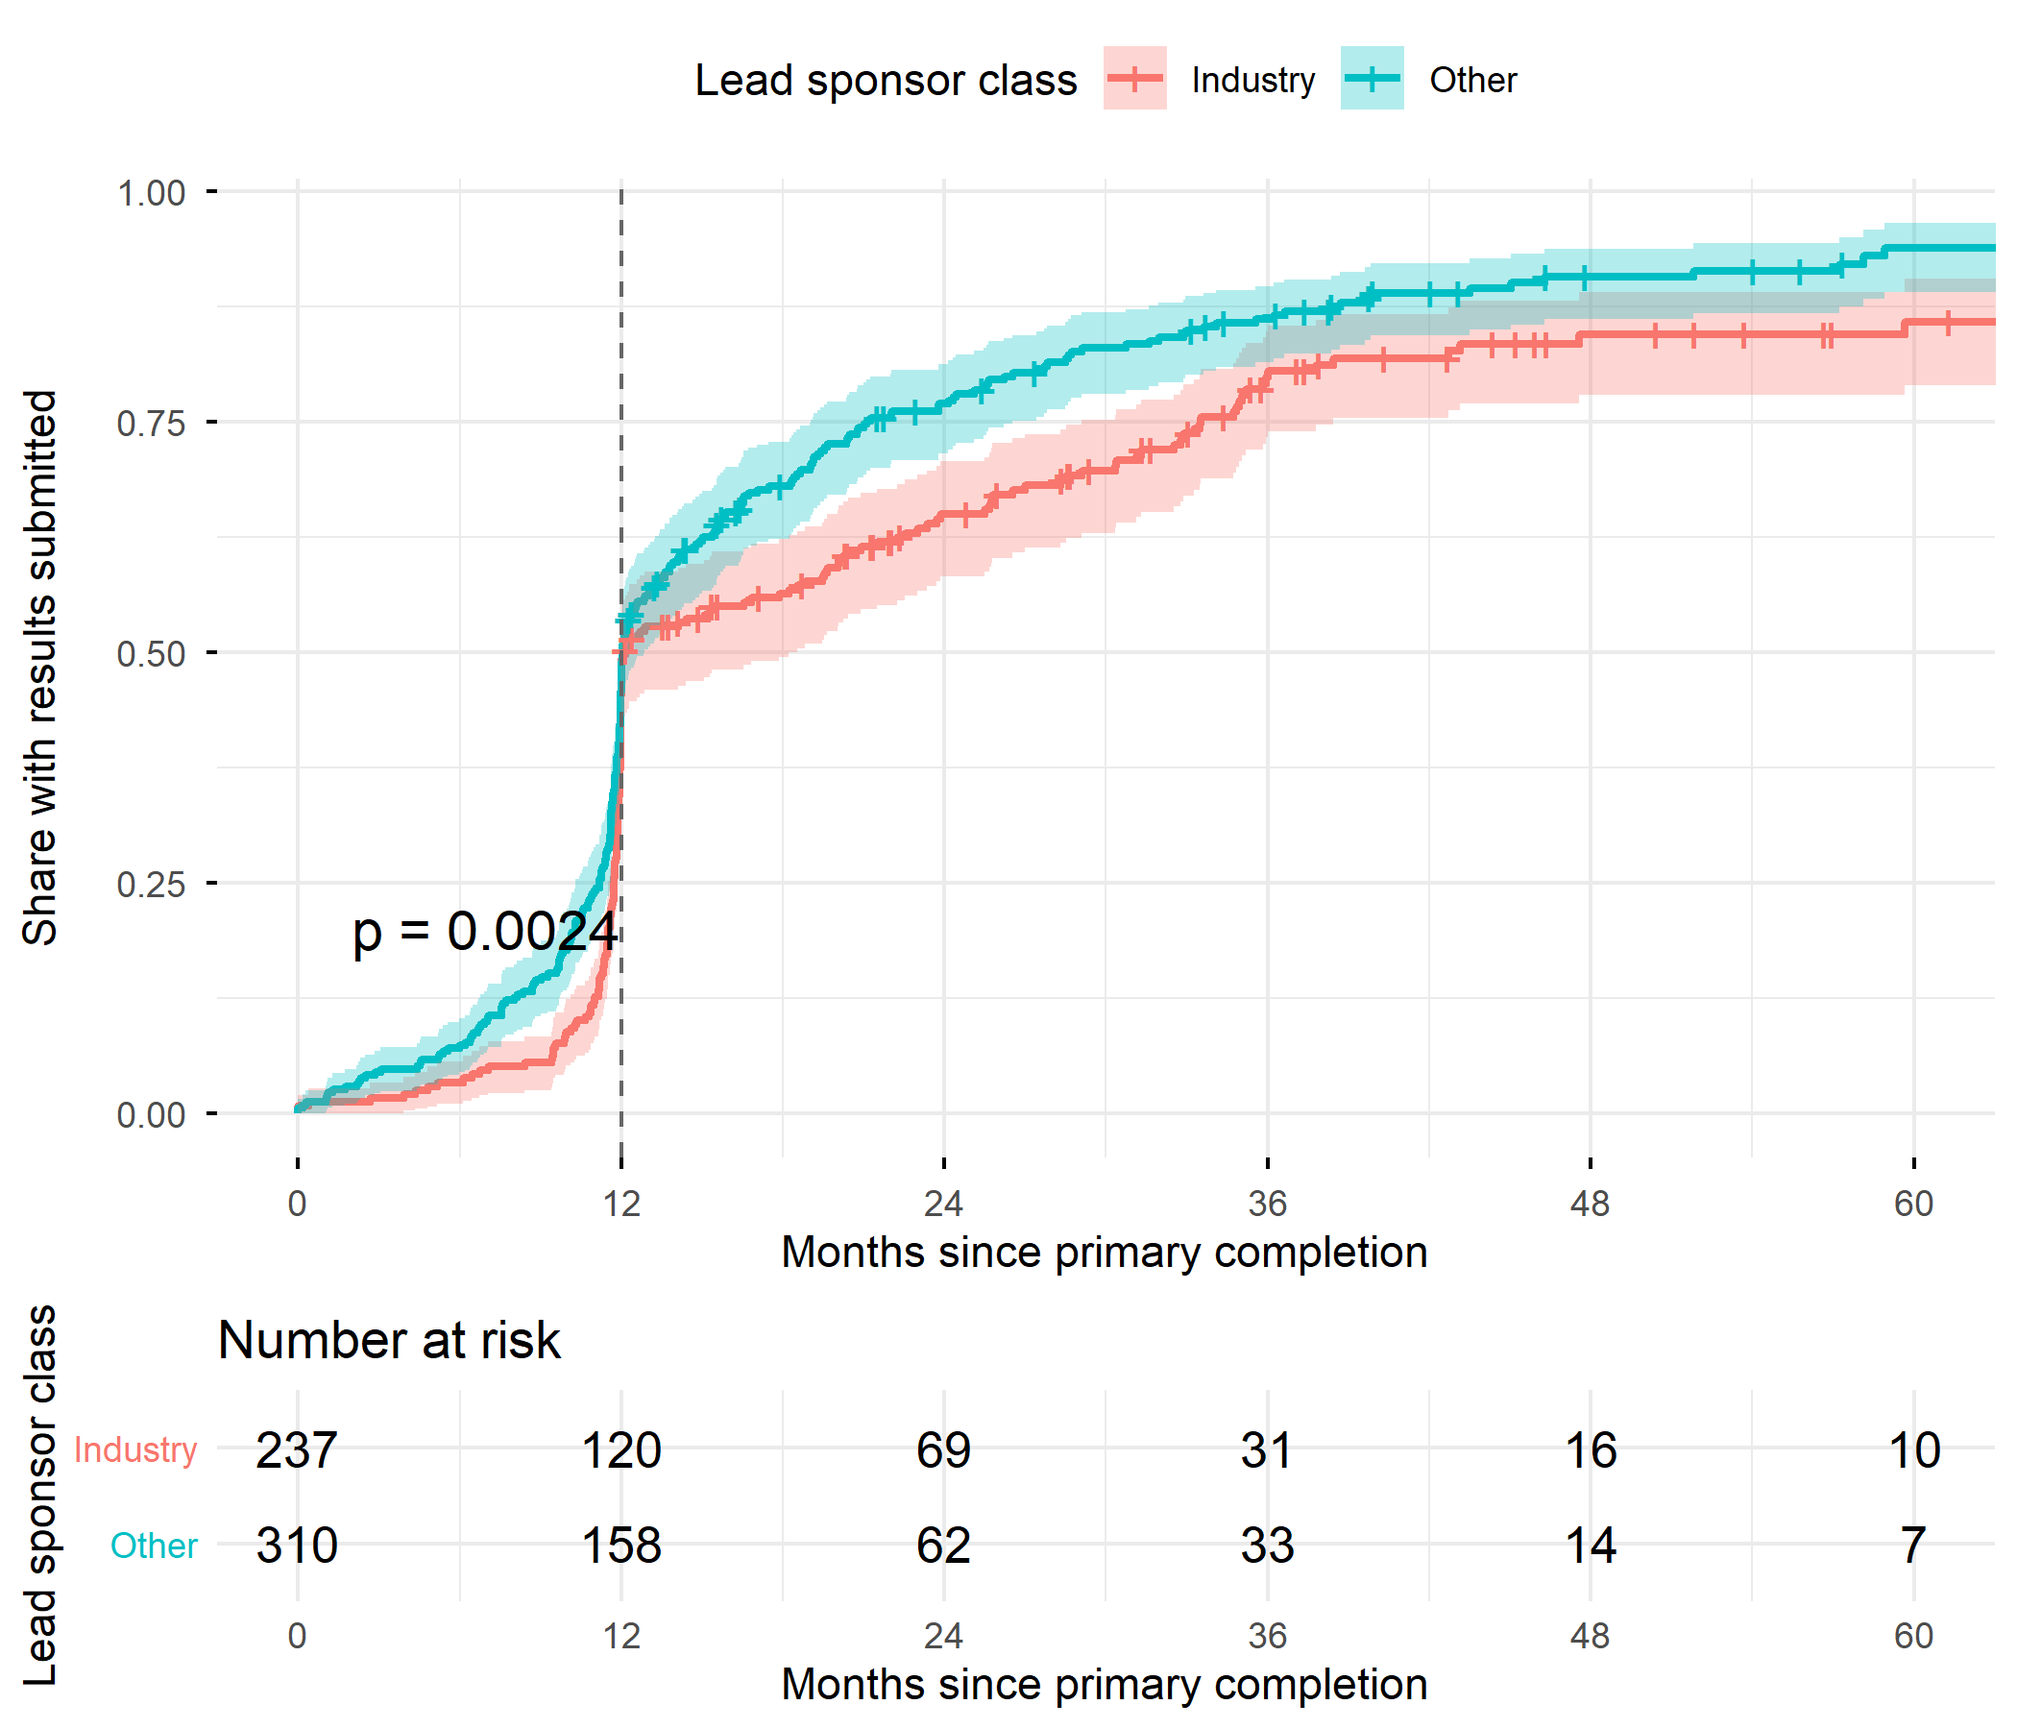
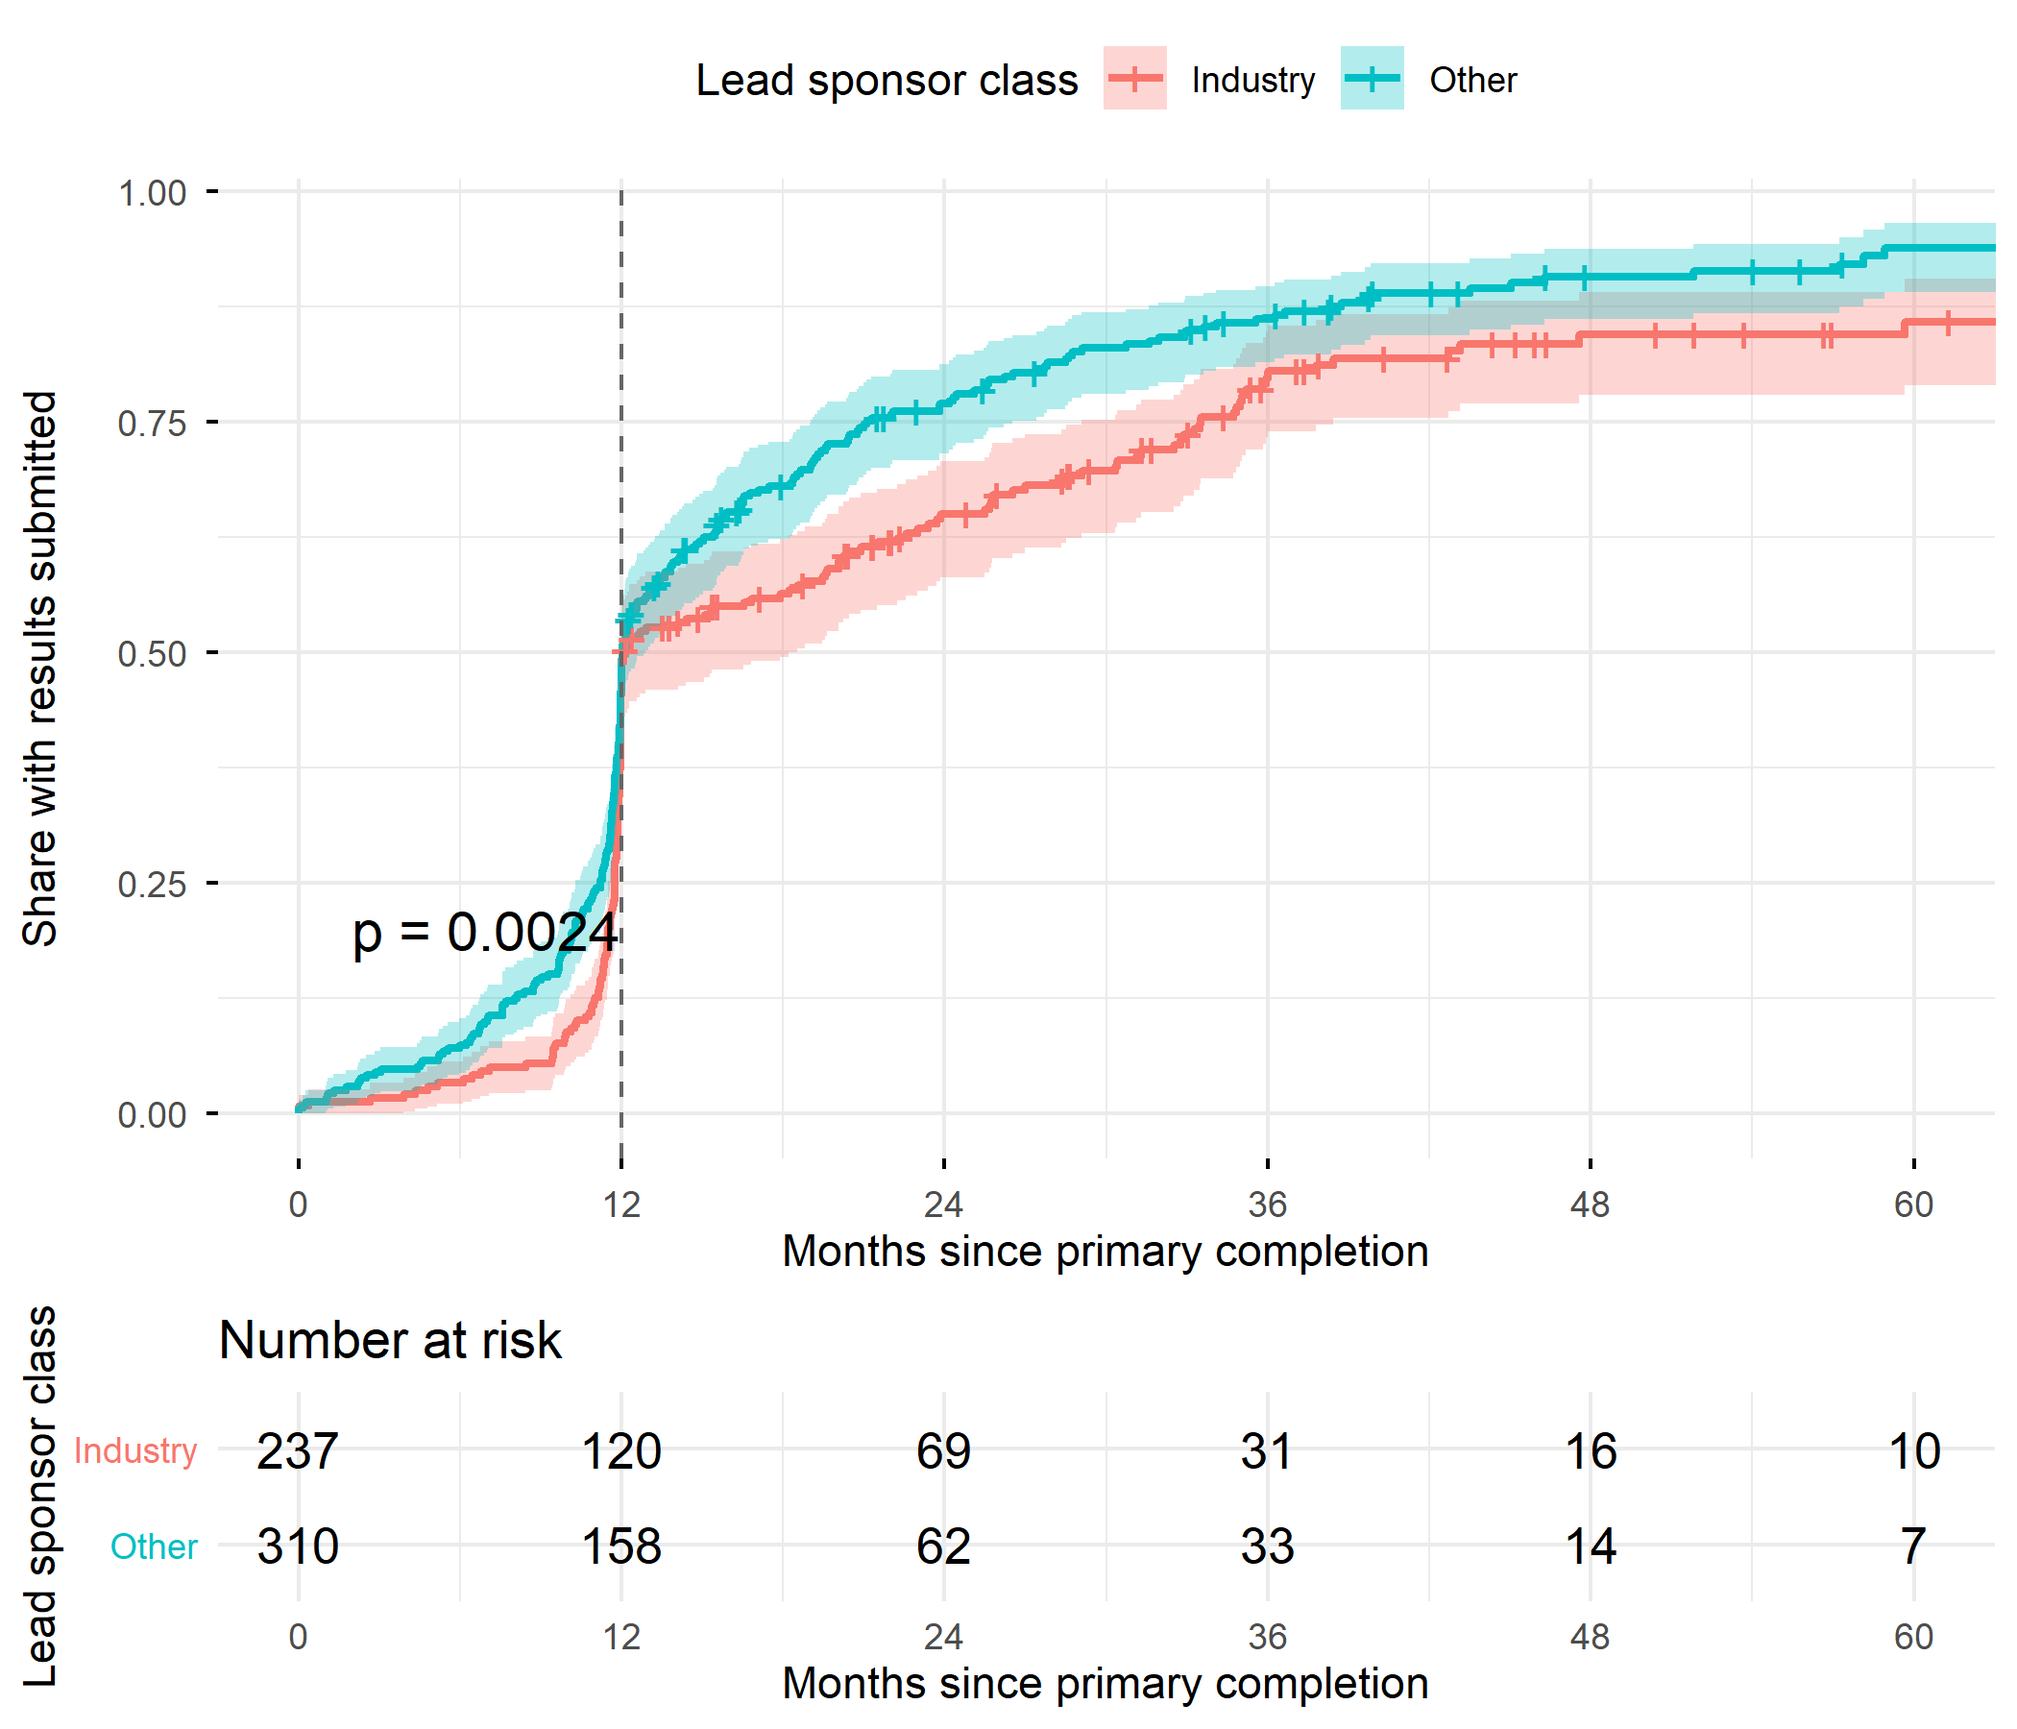
Add GitHub-readable render of the compliance analysis

diff --git a/analysis/results_reporting/03_compliance_analysis.md b/analysis/results_reporting/03_compliance_analysis.md
@@ -1,0 +1,336 @@
+# Timeliness of results submission in breast cancer trials: exploratory pilot
+
+
+- [0. Setup](#0-setup)
+- [1. Cohort funnel](#1-cohort-funnel)
+- [2. Sponsor groups](#2-sponsor-groups)
+- [3. Deadline scenario](#3-deadline-scenario)
+- [4. Common 365-day window](#4-common-365-day-window)
+- [5. Time to first results submission (Kaplan–Meier)](#5-time-to-first-results-submission-kaplanmeier)
+- [6. Limitations](#6-limitations)
+
+Exploratory, unadjusted analysis of the analytic cohort built by the dbt model `fct_results_reporting`. Input: `data/results_reporting.csv` in the repository root, exported with `02_export_for_r.sql`. Figures are written to `figures/`.
+
+## 0. Setup
+
+``` r
+library(dplyr)
+library(readr)
+library(ggplot2)
+library(survival)
+library(survminer)
+
+snapshot_date <- as.Date("2026-10-11")   # same as the dbt var snapshot_date
+dir.create("figures", showWarnings = FALSE)
+
+trials <- read_csv("../../data/results_reporting.csv", show_col_types = FALSE)
+
+# Conservation check against dbt: 11,211 trials in total, 568 in scope.
+nrow(trials)
+```
+
+    [1] 11211
+
+``` r
+sum(trials$in_scope)
+```
+
+    [1] 568
+
+``` r
+cohort <- trials |> filter(in_scope)
+```
+
+## 1. Cohort funnel
+
+Each excluded trial is counted once, at the first rule it fails. The rules define the analytic cohort; they do not adjudicate legal ACT status.
+
+``` r
+funnel <- trials |>
+  count(exclusion_reason) |>
+  mutate(exclusion_reason = coalesce(exclusion_reason, "6_in_scope")) |>
+  arrange(exclusion_reason) |>
+  mutate(remaining_before_step = nrow(trials) - lag(cumsum(n), default = 0))
+funnel
+```
+
+    # A tibble: 7 × 3
+      exclusion_reason             n remaining_before_step
+      <chr>                    <int>                 <int>
+    1 1_not_actually_completed  4432                 11211
+    2 2_completed_before_2017   3204                  6779
+    3 3_not_fda_regulated       2534                  3575
+    4 4_phase_1                  363                  1041
+    5 4b_no_us_site               64                   678
+    6 5_deadline_not_passed       46                   614
+    7 6_in_scope                 568                   568
+
+``` r
+ggplot(funnel, aes(x = n, y = reorder(exclusion_reason, desc(exclusion_reason)))) +
+  geom_col(fill = "grey60") +
+  geom_text(aes(label = n), hjust = -0.15, size = 3.5) +
+  scale_x_continuous(expand = expansion(mult = c(0, 0.15))) +
+  labs(x = "Trials", y = NULL,
+       title = "Cohort selection: first failed rule per trial") +
+  theme_minimal()
+```
+
+![](03_compliance_analysis_files/figure-commonmark/cohort-funnel-1.png)
+
+``` r
+ggsave("figures/01_funnel.png", width = 7, height = 3.5, dpi = 300)
+```
+
+## 2. Sponsor groups
+
+Formal comparisons use the registry lead sponsor classes `INDUSTRY` and `OTHER`. `OTHER` has not been independently classified as academic. The remaining government and network trials (NIH, NETWORK, OTHER_GOV) contribute to cohort totals only.
+
+``` r
+cohort <- cohort |>
+  mutate(sponsor_group = case_when(
+    lead_sponsor_class %in% c("INDUSTRY", "OTHER") ~ lead_sponsor_class,
+    TRUE ~ "GOV_NETWORK"
+  ))
+count(cohort, sponsor_group)
+```
+
+    # A tibble: 3 × 2
+      sponsor_group     n
+      <chr>         <int>
+    1 GOV_NETWORK      21
+    2 INDUSTRY        237
+    3 OTHER           310
+
+``` r
+two_groups <- cohort |> filter(sponsor_group %in% c("INDUSTRY", "OTHER"))
+```
+
+## 3. Deadline scenario
+
+Scenario deadline: primary completion + 12 calendar months, or + 36 calendar months when `disposition_first_submitted_date` is present. This field is used only as a delay-related indicator (exported as `extension_requested`); the analysis does not establish the legal basis, validity or applicable deadline of each record. The 36-month allowance is an assumption.
+
+Status categories from dbt: `ON_TIME` (submitted by the scenario deadline), `LATE`, `OVERDUE_NOT_REPORTED`, and `EXTENSION_REQUESTED` (unsubmitted, still within the 36-month allowance). The last group is excluded from scenario-based proportions only.
+
+``` r
+# All in-scope trials
+cohort |> count(reporting_status) |> mutate(share = n / sum(n))
+```
+
+    # A tibble: 4 × 3
+      reporting_status         n   share
+      <chr>                <int>   <dbl>
+    1 EXTENSION_REQUESTED      5 0.00880
+    2 LATE                   163 0.287  
+    3 ON_TIME                312 0.549  
+    4 OVERDUE_NOT_REPORTED    88 0.155  
+
+``` r
+sum(cohort$reporting_status == "ON_TIME") /
+  sum(cohort$reporting_status != "EXTENSION_REQUESTED")
+```
+
+    [1] 0.5541741
+
+``` r
+# By sponsor group, with exact (Clopper-Pearson) 95% CIs
+scenario <- two_groups |>
+  filter(reporting_status != "EXTENSION_REQUESTED") |>
+  group_by(sponsor_group) |>
+  summarise(on_time = sum(reporting_status == "ON_TIME"),
+            n = n(),
+            .groups = "drop") |>
+  mutate(
+    share = on_time / n,
+    ci_lb = mapply(function(x, n) binom.test(x, n)$conf.int[1], on_time, n),
+    ci_ub = mapply(function(x, n) binom.test(x, n)$conf.int[2], on_time, n)
+  )
+scenario
+```
+
+    # A tibble: 2 × 6
+      sponsor_group on_time     n share ci_lb ci_ub
+      <chr>           <int> <int> <dbl> <dbl> <dbl>
+    1 INDUSTRY          141   232 0.608 0.542 0.671
+    2 OTHER             160   310 0.516 0.459 0.573
+
+``` r
+prop.test(x = scenario$on_time, n = scenario$n)
+```
+
+
+        2-sample test for equality of proportions with continuity correction
+
+    data:  scenario$on_time out of scenario$n
+    X-squared = 4.1482, df = 1, p-value = 0.04168
+    alternative hypothesis: two.sided
+    95 percent confidence interval:
+     0.003945128 0.179314049
+    sample estimates:
+       prop 1    prop 2 
+    0.6077586 0.5161290 
+
+``` r
+# Frequency of delay-related records by sponsor group
+delay_records <- two_groups |>
+  group_by(sponsor_group) |>
+  summarise(with_record = sum(extension_requested), n = n(),
+            share = with_record / n, .groups = "drop")
+delay_records
+```
+
+    # A tibble: 2 × 4
+      sponsor_group with_record     n  share
+      <chr>               <int> <int>  <dbl>
+    1 INDUSTRY               32   237 0.135 
+    2 OTHER                   8   310 0.0258
+
+``` r
+prop.test(x = delay_records$with_record, n = delay_records$n)
+```
+
+
+        2-sample test for equality of proportions with continuity correction
+
+    data:  delay_records$with_record out of delay_records$n
+    X-squared = 22.053, df = 1, p-value = 2.652e-06
+    alternative hypothesis: two.sided
+    95 percent confidence interval:
+     0.05853935 0.15988994
+    sample estimates:
+        prop 1     prop 2 
+    0.13502110 0.02580645 
+
+## 4. Common 365-day window
+
+The scenario analysis was performed first; this comparison was added afterwards to check whether the sponsor difference depended on the additional time allowed. Neither analysis was pre-specified.
+
+First results submission within 365 days of primary completion, irrespective of delay-related records. Missing submissions count as not meeting this window. This is 365 days, not 12 calendar months. Four trials with a submission date before primary completion are retained and count as within 365 days.
+
+``` r
+two_groups <- two_groups |>
+  mutate(within_365 = coalesce(
+    results_first_submitted_date <= primary_completion_date + 365,
+    FALSE
+  ))
+
+within_365 <- two_groups |>
+  group_by(sponsor_group) |>
+  summarise(submitted = sum(within_365), n = n(), share = submitted / n,
+            .groups = "drop")
+within_365
+```
+
+    # A tibble: 2 × 4
+      sponsor_group submitted     n share
+      <chr>             <int> <int> <dbl>
+    1 INDUSTRY            117   237 0.494
+    2 OTHER               152   310 0.490
+
+``` r
+prop.test(x = within_365$submitted, n = within_365$n)
+```
+
+
+        2-sample test for equality of proportions with continuity correction
+
+    data:  within_365$submitted out of within_365$n
+    X-squared = 7.6015e-31, df = 1, p-value = 1
+    alternative hypothesis: two.sided
+    95 percent confidence interval:
+     -0.08454769  0.09124431
+    sample estimates:
+       prop 1    prop 2 
+    0.4936709 0.4903226 
+
+The deadline rule and the denominator both differ between sections 3 and 4, so the comparison cannot isolate the effect of delayed-submission provisions.
+
+## 5. Time to first results submission (Kaplan–Meier)
+
+- Time origin: primary completion date; event: first results submission.
+- Unsubmitted trials are censored at the snapshot date.
+- Months = days / 30.4375.
+- The four trials with a submission date before primary completion get event time 0. These records need review.
+
+``` r
+km_data <- two_groups |>
+  mutate(
+    event = as.integer(!is.na(results_first_submitted_date)),
+    end_date = coalesce(results_first_submitted_date, snapshot_date),
+    time_days = pmax(as.numeric(end_date - primary_completion_date), 0),
+    time_months = time_days / 30.4375
+  )
+
+# Censoring times: every in-scope trial has at least 12 months of follow-up.
+summary(km_data$time_months[km_data$event == 0])
+```
+
+       Min. 1st Qu.  Median    Mean 3rd Qu.    Max. 
+      12.16   20.85   34.37   39.13   51.14   99.22 
+
+``` r
+km_fit <- survfit(Surv(time_months, event) ~ sponsor_group, data = km_data)
+
+# Log-rank test of the full curves
+survdiff(Surv(time_months, event) ~ sponsor_group, data = km_data)
+```
+
+    Call:
+    survdiff(formula = Surv(time_months, event) ~ sponsor_group, 
+        data = km_data)
+
+                             N Observed Expected (O-E)^2/E (O-E)^2/V
+    sponsor_group=INDUSTRY 237      185      217      4.76      9.25
+    sponsor_group=OTHER    310      271      239      4.33      9.25
+
+     Chisq= 9.3  on 1 degrees of freedom, p= 0.002 
+
+``` r
+# Survival S(t) at 12, 24 and 36 months; cumulative submission is 1 - S(t)
+summary(km_fit, times = c(12, 24, 36))
+```
+
+    Call: survfit(formula = Surv(time_months, event) ~ sponsor_group, data = km_data)
+
+                    sponsor_group=INDUSTRY 
+     time n.risk n.event survival std.err lower 95% CI upper 95% CI
+       12    120     117    0.506  0.0325        0.447        0.574
+       24     69      34    0.350  0.0318        0.293        0.418
+       36     31      26    0.201  0.0289        0.152        0.267
+
+                    sponsor_group=OTHER 
+     time n.risk n.event survival std.err lower 95% CI upper 95% CI
+       12    158     152    0.510  0.0284        0.457        0.568
+       24     62      82    0.230  0.0246        0.187        0.284
+       36     33      24    0.138  0.0208        0.103        0.186
+
+``` r
+# fun = "event" plots cumulative submission, 1 - S(t).
+p <- ggsurvplot(
+  km_fit, data = km_data,
+  fun = "event", conf.int = TRUE, risk.table = TRUE,
+  xlim = c(0, 60), break.time.by = 12,
+  xlab = "Months since primary completion",
+  ylab = "Share with results submitted",
+  legend.title = "Lead sponsor class", legend.labs = c("Industry", "Other"),
+  pval = TRUE, ggtheme = theme_minimal()
+)
+# 12-month reference line, not a trial-specific legal deadline
+p$plot <- p$plot + geom_vline(xintercept = 12, linetype = "dashed", colour = "grey40")
+p
+```
+
+![](03_compliance_analysis_files/figure-commonmark/km-by-sponsor-1.png)
+
+``` r
+png("figures/02_km_by_sponsor.png", width = 7, height = 6, units = "in", res = 300)
+print(p)
+invisible(dev.off())
+```
+
+## 6. Limitations
+
+- Deadlines and eligibility are operational approximations. Registry missingness (for example empty FDA-regulation flags) may bias selection in an unknown direction.
+- Missing phase values are retained.
+- Comparisons are unadjusted and ignore clustering by sponsor.
+- Kaplan–Meier assumes non-informative censoring. Proportional hazards have not been tested and would need checking before fitting a Cox model.
+- Submission does not establish public posting, complete reporting or journal publication.

diff --git a/analysis/results_reporting/README.md b/analysis/results_reporting/README.md
@@ -72,7 +72,8 @@ curves of cumulative submission (1 − S(t)) with an overall log-rank test.
 Comparisons use the registry lead sponsor classes `INDUSTRY` (n = 237) and
 `OTHER` (n = 310); `OTHER` has not been independently classified as academic.
 The remaining 21 government/network trials contribute to cohort totals only.
-Code: [`03_compliance_analysis.qmd`](03_compliance_analysis.qmd).
+Code: [`03_compliance_analysis.qmd`](03_compliance_analysis.qmd); rendered
+analysis with code and output: [`03_compliance_analysis.md`](03_compliance_analysis.md).
 
 ## Results
 
@@ -138,8 +139,10 @@ different questions.
    date precedes primary completion (23 in the base cohort, 4 in scope).
 2. Run [`02_export_for_r.sql`](02_export_for_r.sql) in BigQuery and save the
    result as `data/results_reporting.csv` in the repository root (git-ignored).
-3. Render [`03_compliance_analysis.qmd`](03_compliance_analysis.qmd) with Quarto,
-   or run it in RStudio from this folder.
+3. Render [`03_compliance_analysis.qmd`](03_compliance_analysis.qmd) with Quarto
+   (`quarto render 03_compliance_analysis.qmd`), or run it in RStudio from this
+   folder. The `gfm` output, [`03_compliance_analysis.md`](03_compliance_analysis.md),
+   is committed so the results can be read on GitHub without running the code.
 
 [`01_data_audit.sql`](01_data_audit.sql) holds the data checks used to choose the
 cohort rules (fill rates, value spellings, FDA-flag missingness by year, date
